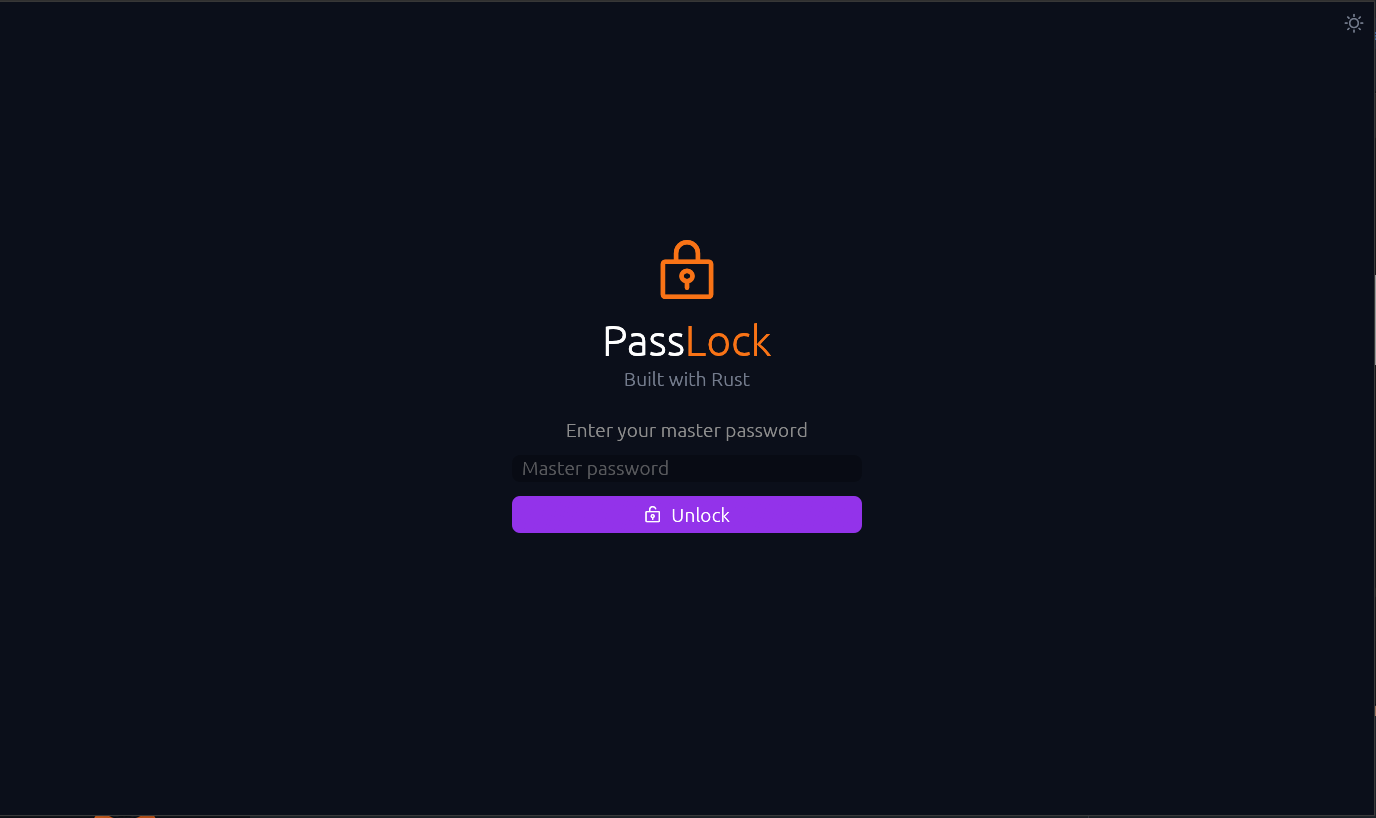
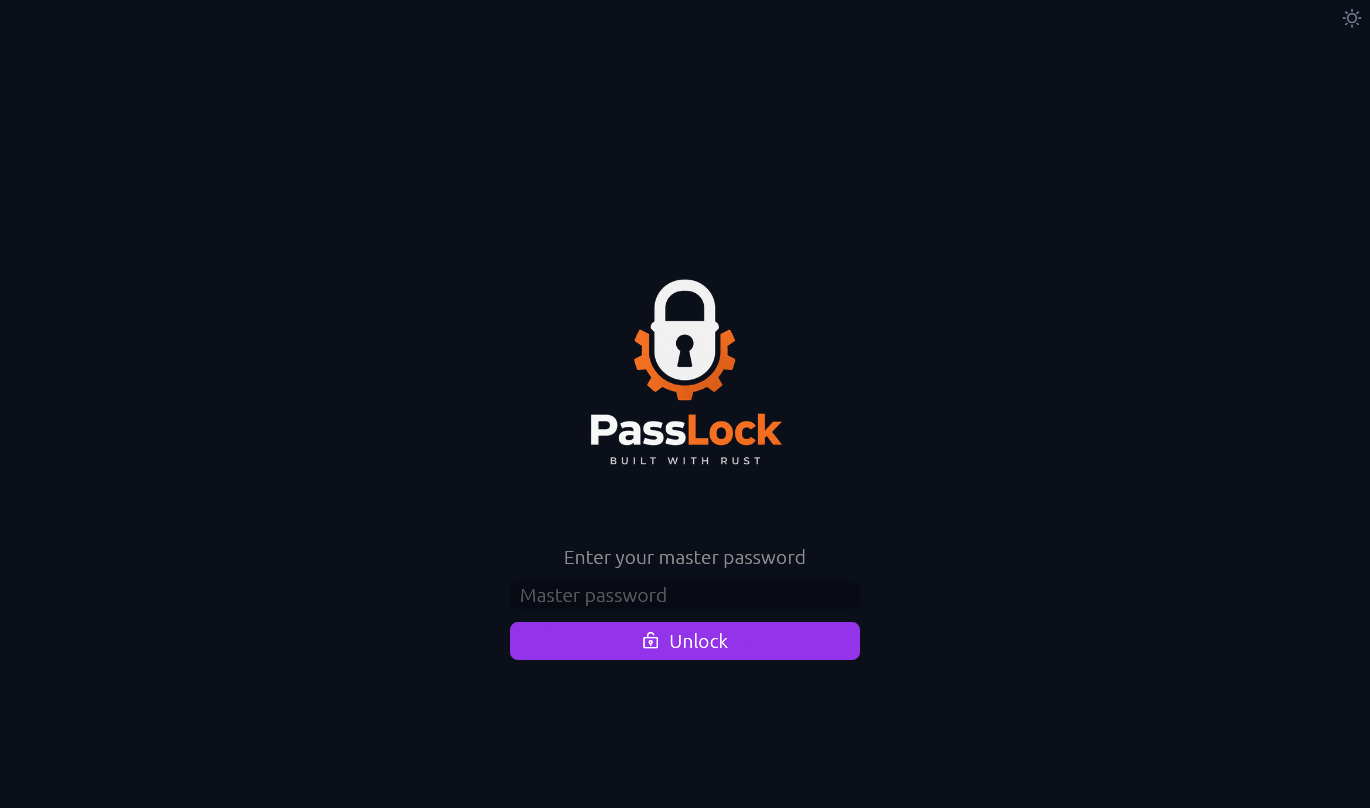
chore: passlock application UI change

diff --git a/src/app.rs b/src/app.rs
@@ -172,6 +172,15 @@ pub struct App {
     toast: Option<(String, Instant)>,
     dark: bool,
     theme_path: PathBuf,
+    logo: Option<egui::TextureHandle>,
+    emblem: Option<egui::TextureHandle>,
+}
+
+fn load_png(ctx: &egui::Context, name: &str, bytes: &[u8]) -> Option<egui::TextureHandle> {
+    let icon = eframe::icon_data::from_png_bytes(bytes).ok()?;
+    let size = [icon.width as usize, icon.height as usize];
+    let image = egui::ColorImage::from_rgba_unmultiplied(size, &icon.rgba);
+    Some(ctx.load_texture(name, image, egui::TextureOptions::LINEAR))
 }
 
 impl App {
@@ -180,6 +189,8 @@ impl App {
         let dark = fs::read_to_string(&theme_path).map(|s| s.trim() != "light").unwrap_or(true);
         apply_theme(ctx, dark);
         App {
+            logo: load_png(ctx, "logo", include_bytes!("../assets/logo_512.png")),
+            emblem: load_png(ctx, "emblem", include_bytes!("../assets/emblem.png")),
             dark,
             theme_path,
             path,
@@ -272,10 +283,14 @@ impl App {
             ui.with_layout(Layout::right_to_left(Align::Min), |ui| toggle = self.theme_button(ui));
             ui.add_space(ui.available_height() * 0.25);
             ui.vertical_centered(|ui| {
-                ui.label(RichText::new(icons::LOCK_KEY).size(56.0).color(ORANGE));
-                wordmark(ui, 34.0);
-                ui.label(RichText::new("Built with Rust").color(MUTED));
-                ui.add_space(20.0);
+                if let Some(logo) = &self.logo {
+                    logo_image(ui, logo, 240.0, 12.0);
+                } else {
+                    ui.label(RichText::new(icons::LOCK_KEY).size(56.0).color(ORANGE));
+                    wordmark(ui, 34.0);
+                    ui.label(RichText::new("Built with Rust").color(MUTED));
+                }
+                ui.add_space(12.0);
                 ui.label(if creating {
                     "Create a master password for your new vault"
                 } else {
@@ -388,7 +403,11 @@ impl App {
 
         egui::Panel::top("header").show(ui, |ui| {
             ui.horizontal(|ui| {
-                ui.label(RichText::new(icons::LOCK_KEY).size(22.0).color(ORANGE));
+                if let Some(emblem) = &self.emblem {
+                    logo_image(ui, emblem, 30.0, 6.0);
+                } else {
+                    ui.label(RichText::new(icons::LOCK_KEY).size(22.0).color(ORANGE));
+                }
                 wordmark(ui, 22.0);
                 ui.add_space(16.0);
                 ui.add(
@@ -997,6 +1016,15 @@ fn icon_button(ui: &mut egui::Ui, icon: &str, tip: &str, color: Color32) -> bool
         .on_hover_text(tip)
         .on_hover_cursor(egui::CursorIcon::PointingHand)
         .clicked()
+}
+
+/// Logo art is white-on-dark, so the light theme needs a dark backdrop.
+fn logo_image(ui: &mut egui::Ui, tex: &egui::TextureHandle, size: f32, radius: f32) {
+    let (rect, _) = ui.allocate_exact_size(Vec2::splat(size), Sense::hover());
+    if !is_dark(ui) {
+        ui.painter().rect_filled(rect, radius, Color32::from_rgb(17, 20, 26));
+    }
+    egui::Image::new(tex).fit_to_exact_size(rect.size()).paint_at(ui, rect);
 }
 
 fn wordmark(ui: &mut egui::Ui, size: f32) {

diff --git a/src/main.rs b/src/main.rs
@@ -7,12 +7,13 @@ use eframe::egui;
 use passlock::storage::Vault;
 
 fn main() -> eframe::Result {
-    let options = eframe::NativeOptions {
-        viewport: egui::ViewportBuilder::default()
-            .with_inner_size([1100.0, 650.0])
-            .with_min_inner_size([760.0, 480.0]),
-        ..Default::default()
-    };
+    let mut viewport = egui::ViewportBuilder::default()
+        .with_inner_size([1100.0, 650.0])
+        .with_min_inner_size([760.0, 480.0]);
+    if let Ok(icon) = eframe::icon_data::from_png_bytes(include_bytes!("../assets/icon.png")) {
+        viewport = viewport.with_icon(icon);
+    }
+    let options = eframe::NativeOptions { viewport, ..Default::default() };
     eframe::run_native(
         "PassLock",
         options,
